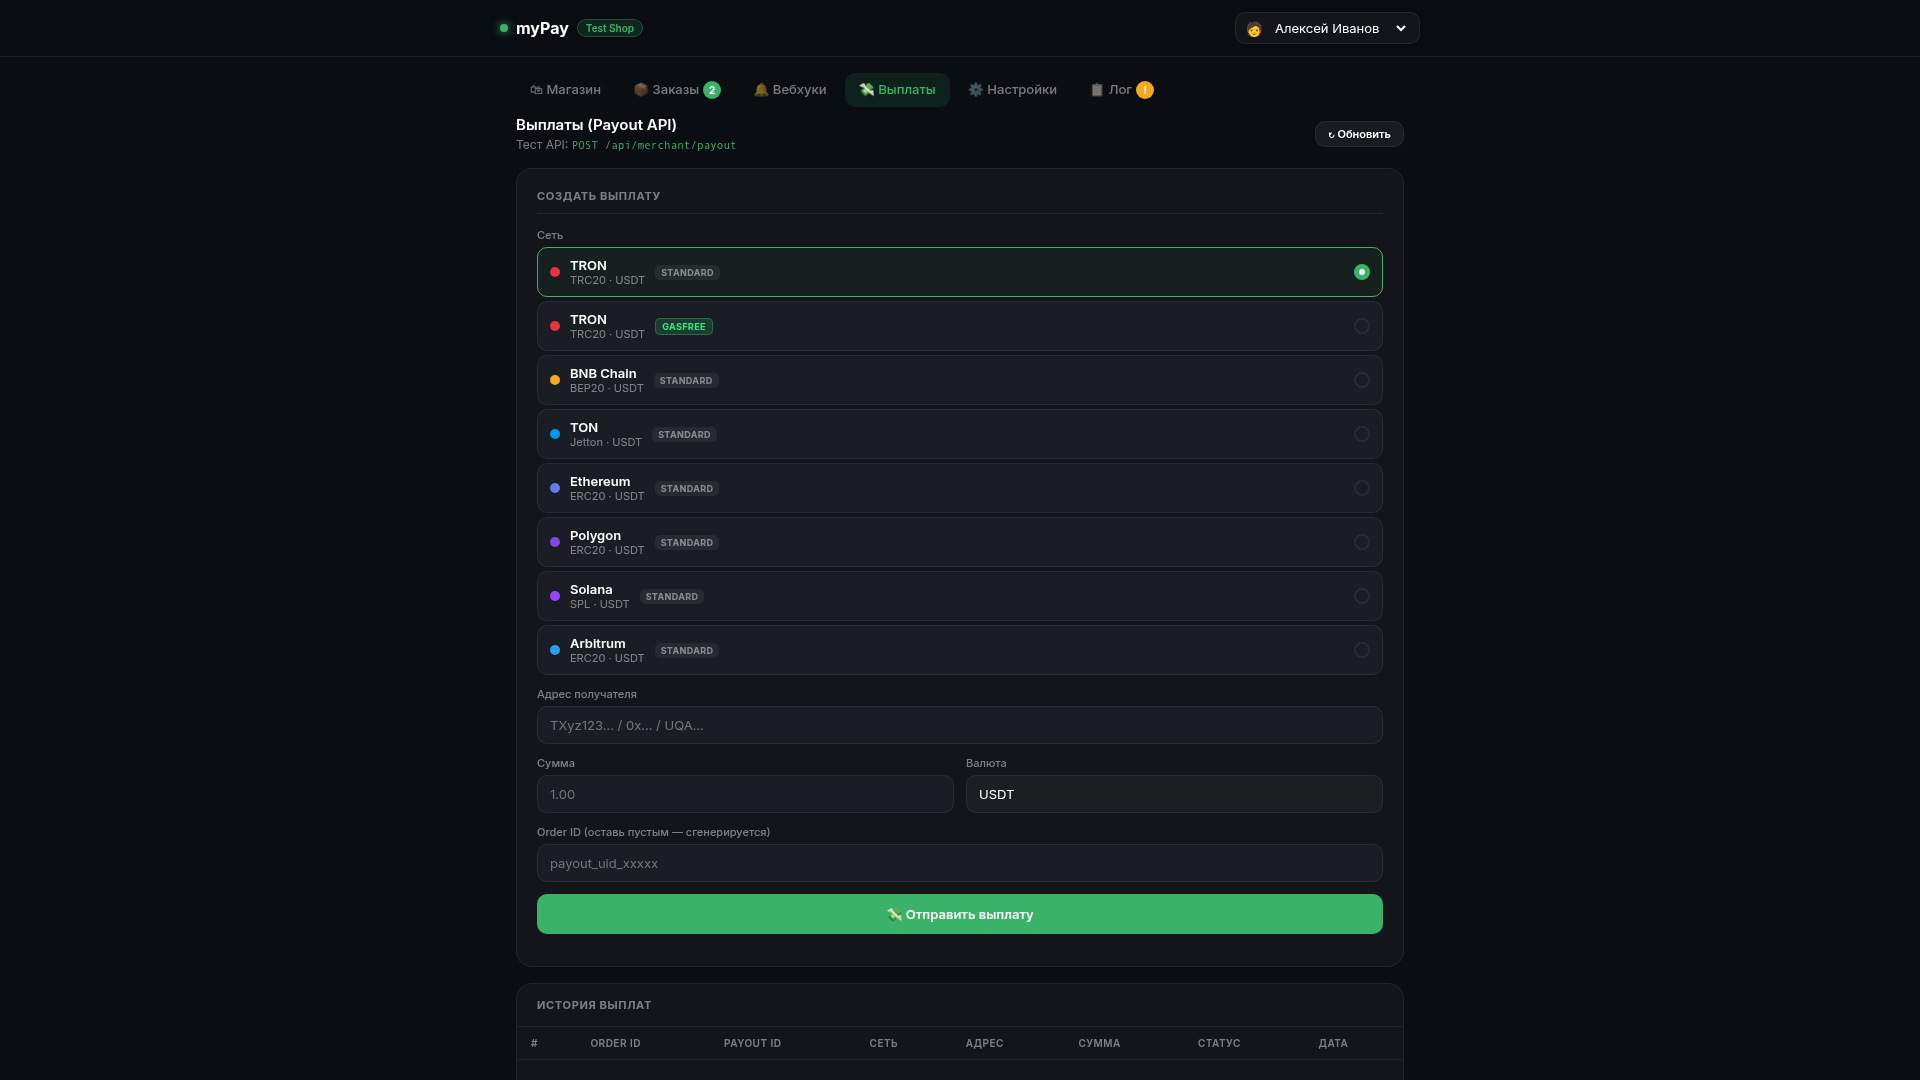
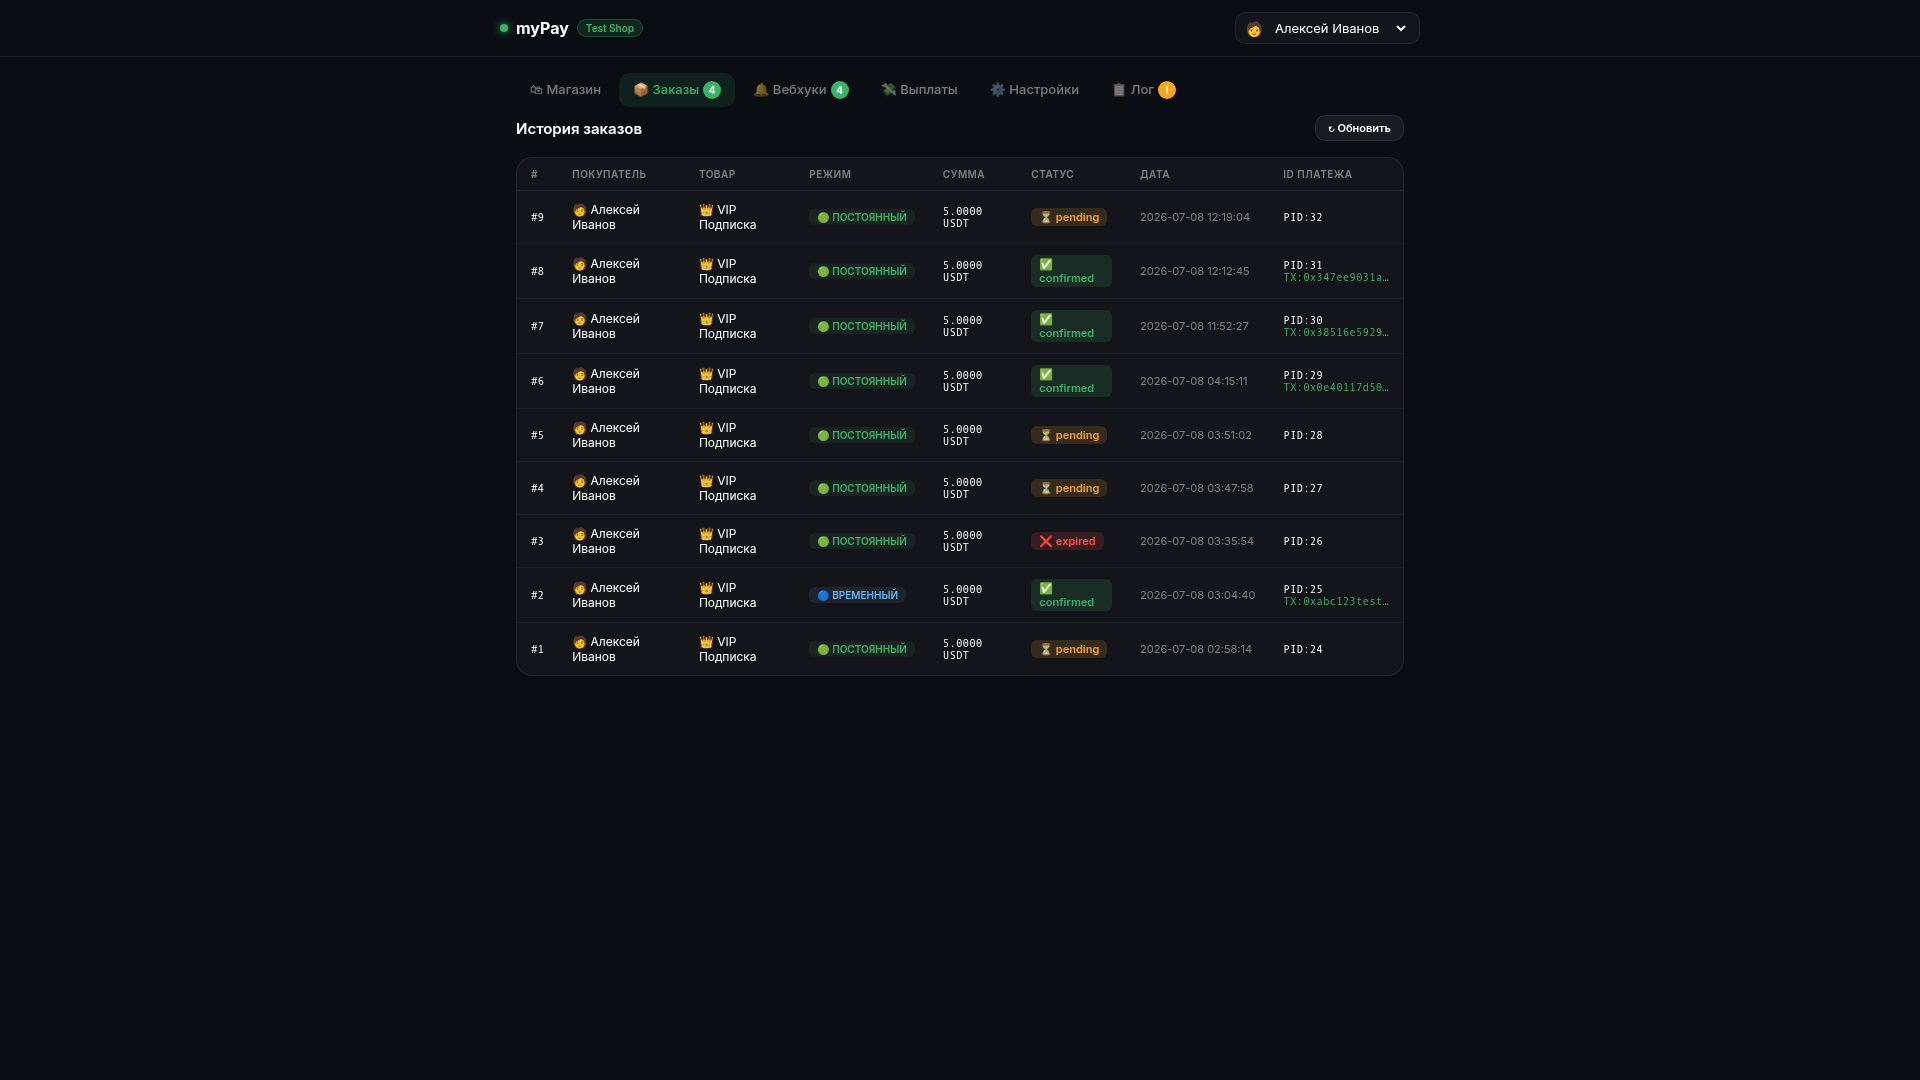
Improve webhook reliability by enforcing HTTPS and resending failed payments
Update webhook sending logic to use HTTPS and resend payment notifications for orders 30 and 31.

Replit-Commit-Author: Agent
Replit-Commit-Session-Id: 273e60fc-1ccd-4b8a-a06c-a0965fd22c43
Replit-Commit-Checkpoint-Type: full_checkpoint
Replit-Commit-Event-Id: f621e00c-ba36-423f-ae98-27e16b5a775b
Replit-Commit-Screenshot-Url: https://storage.googleapis.com/screenshot-production-us-central1/d2bc85b1-d778-4522-a355-9506765ed8c9/273e60fc-1ccd-4b8a-a06c-a0965fd22c43/HIbMex7

diff --git a/server/business-routes.ts b/server/business-routes.ts
@@ -793,12 +793,15 @@ function generatePayoutRef(): string {
 
 async function sendWebhook(webhookUrl: string, payload: object): Promise<void> {
   try {
-    await fetch(webhookUrl, {
+    // Force HTTPS to avoid POST→GET downgrade on 301 redirect
+    const url = webhookUrl.replace(/^http:\/\//i, "https://");
+    const res = await fetch(url, {
       method: "POST",
       headers: { "Content-Type": "application/json" },
       body: JSON.stringify(payload),
       signal: AbortSignal.timeout(10000),
     });
+    console.log(`[Webhook] Delivered to ${url}: ${res.status}`);
   } catch (e) {
     console.warn("[Webhook] Failed to deliver:", e);
   }
